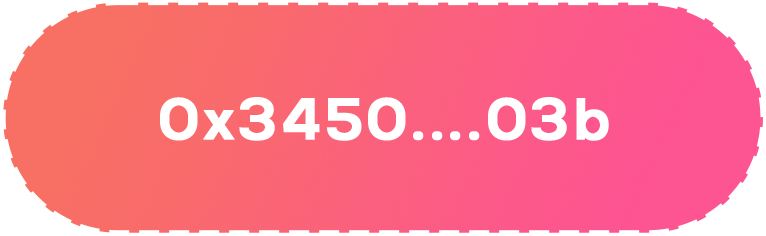
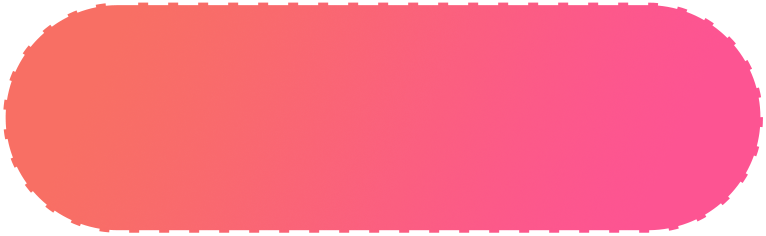
try to show wallet address

Changed region(s): [[0.2102, 0.4153, 0.8107, 0.5932]]

diff --git a/src/app/methods.service.ts b/src/app/methods.service.ts
@@ -1,6 +1,7 @@
 import { Injectable } from '@angular/core';
 import { ethers } from 'ethers';
 import { BehaviorSubject } from 'rxjs';
+import { first } from 'rxjs/operators';
 
 declare let ethereum: any;
 
@@ -10,7 +11,7 @@ declare let ethereum: any;
 export class MethodsService {
   isConnected$ = new BehaviorSubject<boolean>(false);
   isCorrectChain$ = new BehaviorSubject<boolean>(false);
-  account: string | null = null;
+  account$ = new BehaviorSubject<string | null>(null);
   balance: string | null = null;
   async checkMetamaskStatus(): Promise<void> {
     if (typeof ethereum !== 'undefined') {
@@ -92,11 +93,18 @@ export class MethodsService {
   async getAccountAndBalance(): Promise<void> {
     const provider = new ethers.providers.Web3Provider(ethereum);
     const signer = provider.getSigner();
-    this.account = await signer.getAddress();
-    const balance = await provider.getBalance(this.account);
-    this.balance = ethers.utils.formatEther(balance);
+  
+    try {
+      const address = this.account$.getValue(); // Use getValue() to get the current value
+      if (address !== null) {
+        this.account$.next(await signer.getAddress());
+        const balance = await provider.getBalance(address);
+        this.balance = ethers.utils.formatEther(balance);
+      }
+    } catch (error) {
+      console.error('Error getting account and balance:', error);
+    }
   }
-
   claim(): void {
     console.log('Claim button clicked');
   }

diff --git a/src/app/header/header.component.ts b/src/app/header/header.component.ts
@@ -1,6 +1,8 @@
 import { Component } from '@angular/core';
 import { MenuItem } from 'primeng/api';
 import { Router, NavigationEnd , ActivatedRoute } from '@angular/router';
+import { MethodsService } from 'src/app/methods.service';
+import { Subscription } from 'rxjs';
 
 @Component({
   selector: 'app-header',
@@ -10,8 +12,10 @@ import { Router, NavigationEnd , ActivatedRoute } from '@angular/router';
 export class HeaderComponent {
   menuItems: MenuItem[];
   isAccountPage: boolean = false;
-  
-  constructor(private router: Router, private activatedRoute: ActivatedRoute) {
+  walletAddress: string | null = null;
+  private accountSubscription: Subscription | undefined;
+
+  constructor(private router: Router, private activatedRoute: ActivatedRoute,private methodsService: MethodsService) {
     this.menuItems  = [
       {label: 'Home', routerLink: ['/']},
       {label: 'Dashboard',  routerLink: ['/dashboard']},
@@ -29,6 +33,12 @@ export class HeaderComponent {
         console.log("isAccountPage: ",this.isAccountPage )
       }
     });
+    this.accountSubscription = this.methodsService.account$.subscribe(address => {
+      this.walletAddress = address;
+    });
+  }
+  ngOnDestroy() {
+    this.accountSubscription?.unsubscribe();
   }
   toggleMenu() {
     // Toggle menu logic here

diff --git a/src/app/header/header.component.html b/src/app/header/header.component.html
@@ -7,7 +7,7 @@
   <div class="p-toolbar-group-end">
     <p-menubar [model]="menuItems" styleClass="menubar" >
     </p-menubar>
-    <img src="../../assets/images/wallet_button.png"  class="wallet-header">
+    <h4 class="wallet-header"> walletAddress : {{ walletAddress }} </h4>
   </div>
 </p-toolbar>
 

diff --git a/src/app/header/header.component.scss b/src/app/header/header.component.scss
@@ -19,6 +19,7 @@
 
 .wallet-header{
   width: 200px;
+  background-image: "../../assets/images/wallet_button.png";
 }
 .logo-header{
   width: 4rem;
